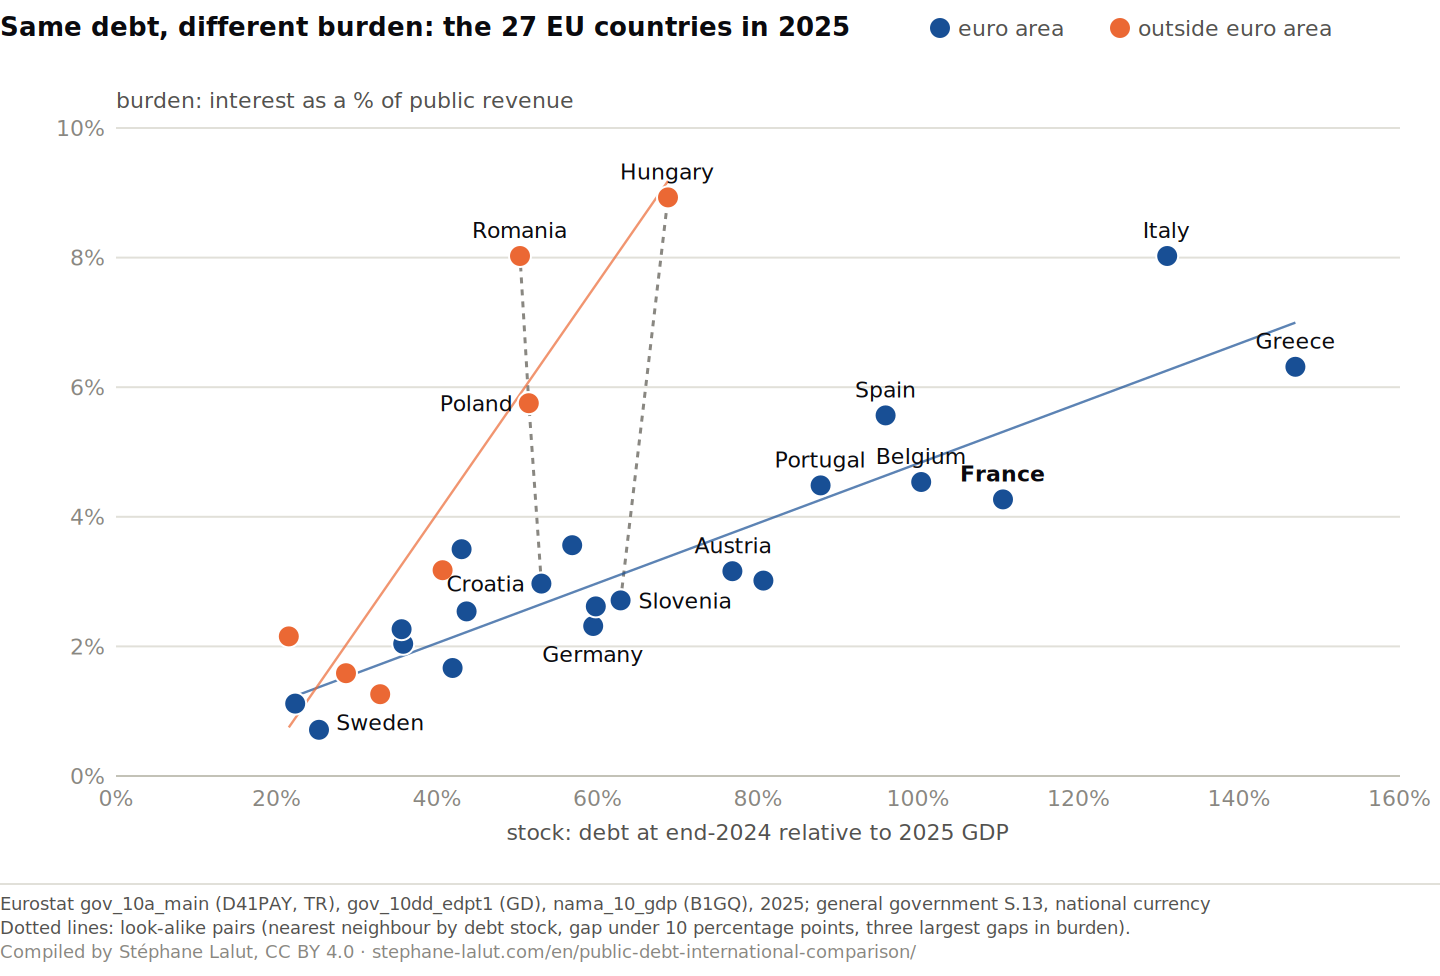
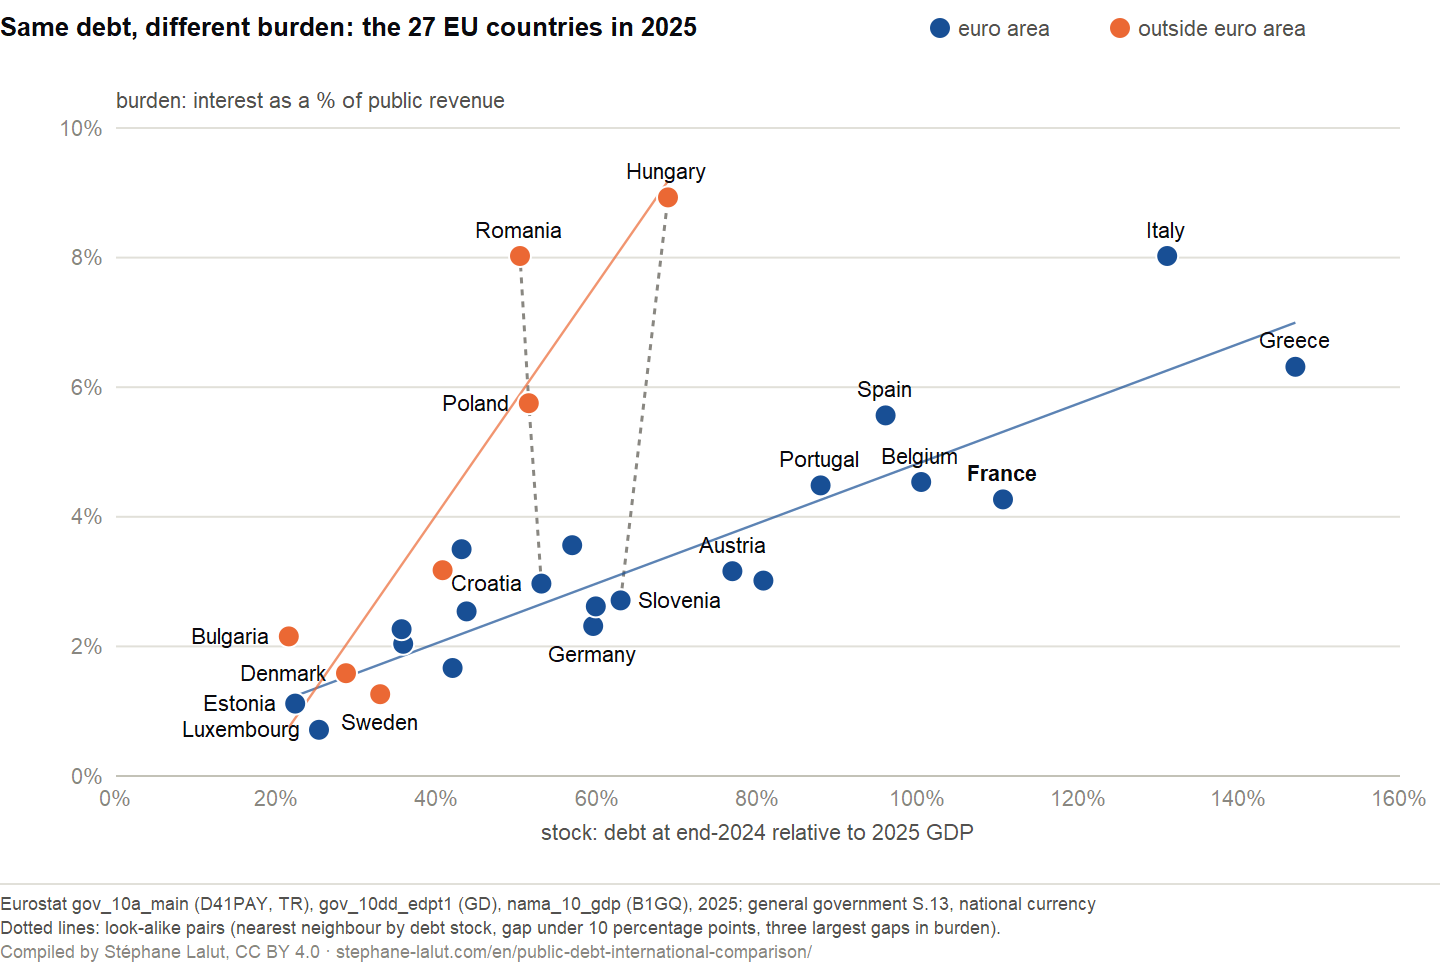
feat(dette-monde): nommer les deux pays les moins endettes de chaque groupe
Nuage « Meme dette, charge differente » (FR et EN) : Bulgarie et Danemark
(hors zone euro), Estonie et Luxembourg (zone euro) etiquetes a gauche de
leur point ; la Suede l'etait deja. Regeneration hors ligne depuis
data/dette_monde.json, temoin : les huit figures reproduites a l'octet avant
la modification. Seules les deux figures du nuage changent ; fiches
« Reutiliser » identiques. hugo 0, check-all --ci 0.

diff --git a/scripts/update_dette_monde.py b/scripts/update_dette_monde.py
@@ -927,7 +927,9 @@ def figures(lang: str, an: str, rows: list[dict], stats: dict, jum: list[dict]) 
             rows, lambda x: x["stock"], lambda x: x["charge"], 160, 10, 20, 2,
             T["c_lx"], T["c_ly"], "mc", T["c_titre"], T["c_desc"], T["src_eu"], T["c_note"],
             {"FR": "h", "IT": "h", "EL": "h", "DE": "b", "HU": "h", "RO": "h", "PL": "g", "SE": "b", "ES": "h",
-             "BE": "h", "PT": "h", "AT": "h", "SI": "d", "HR": "g"},
+             "BE": "h", "PT": "h", "AT": "h", "SI": "d", "HR": "g",
+             # Les deux moins endettés de chaque groupe (auteur, 04/10) : sans eux, le bas de l'échelle restait anonyme.
+             "BG": "g", "DK": "g", "EE": "g", "LU": "g"},
             droites=[(stats["charge_stock_euro"]["ordonnee"], stats["charge_stock_euro"]["pente"],
                       stats["charge_stock_euro"]["stock_min"], stats["charge_stock_euro"]["stock_max"], COL_EURO),
                      (stats["charge_stock_hors"]["ordonnee"], stats["charge_stock_hors"]["pente"],
